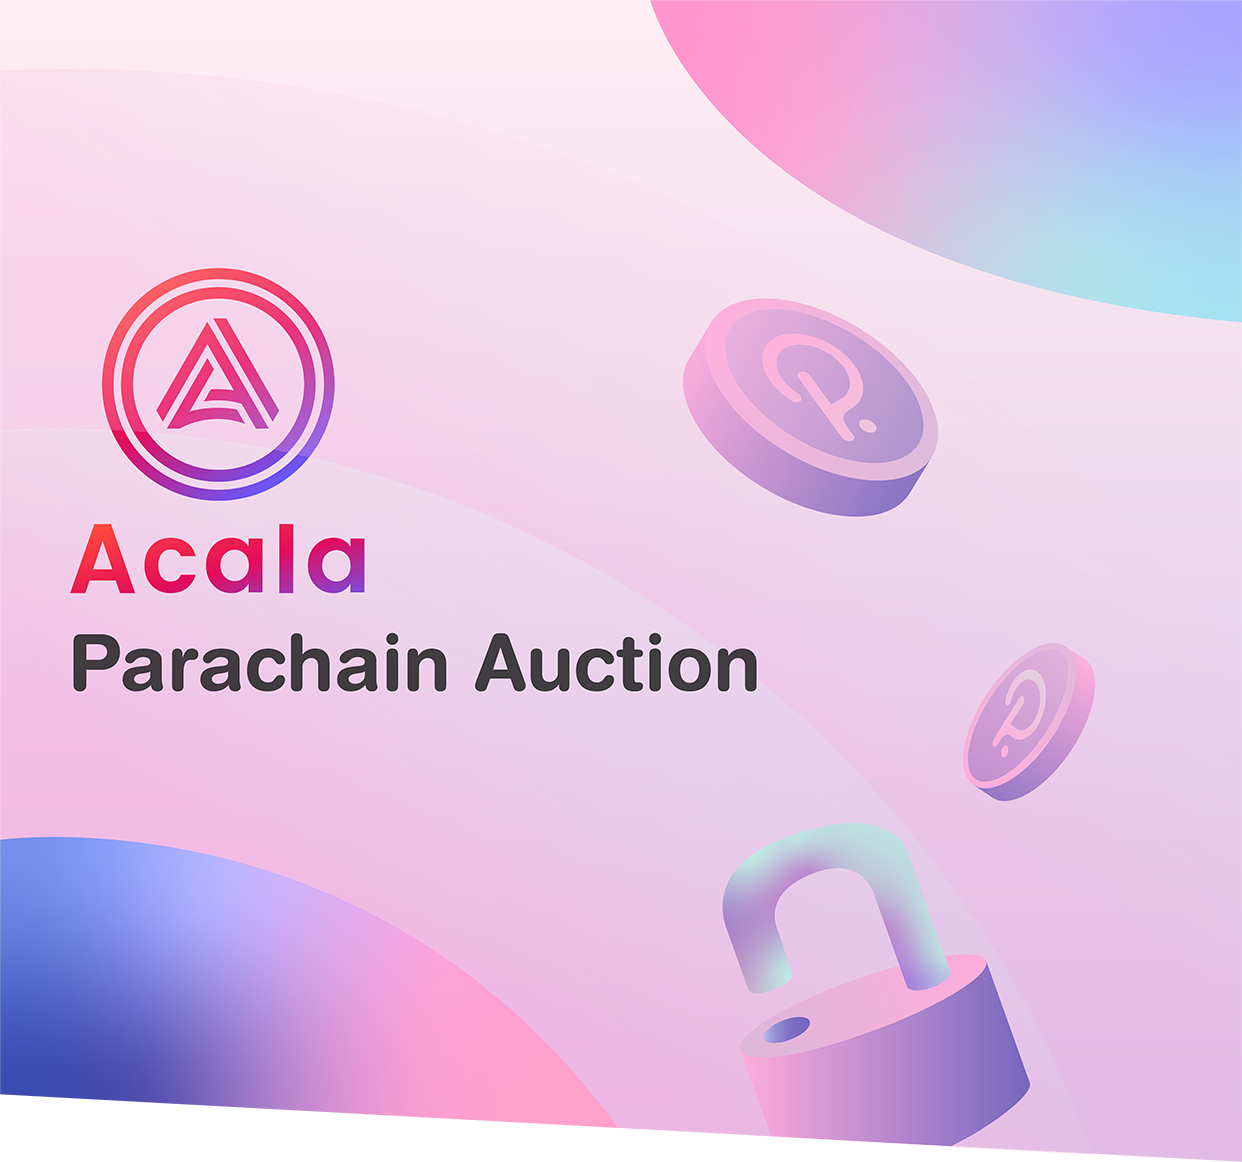
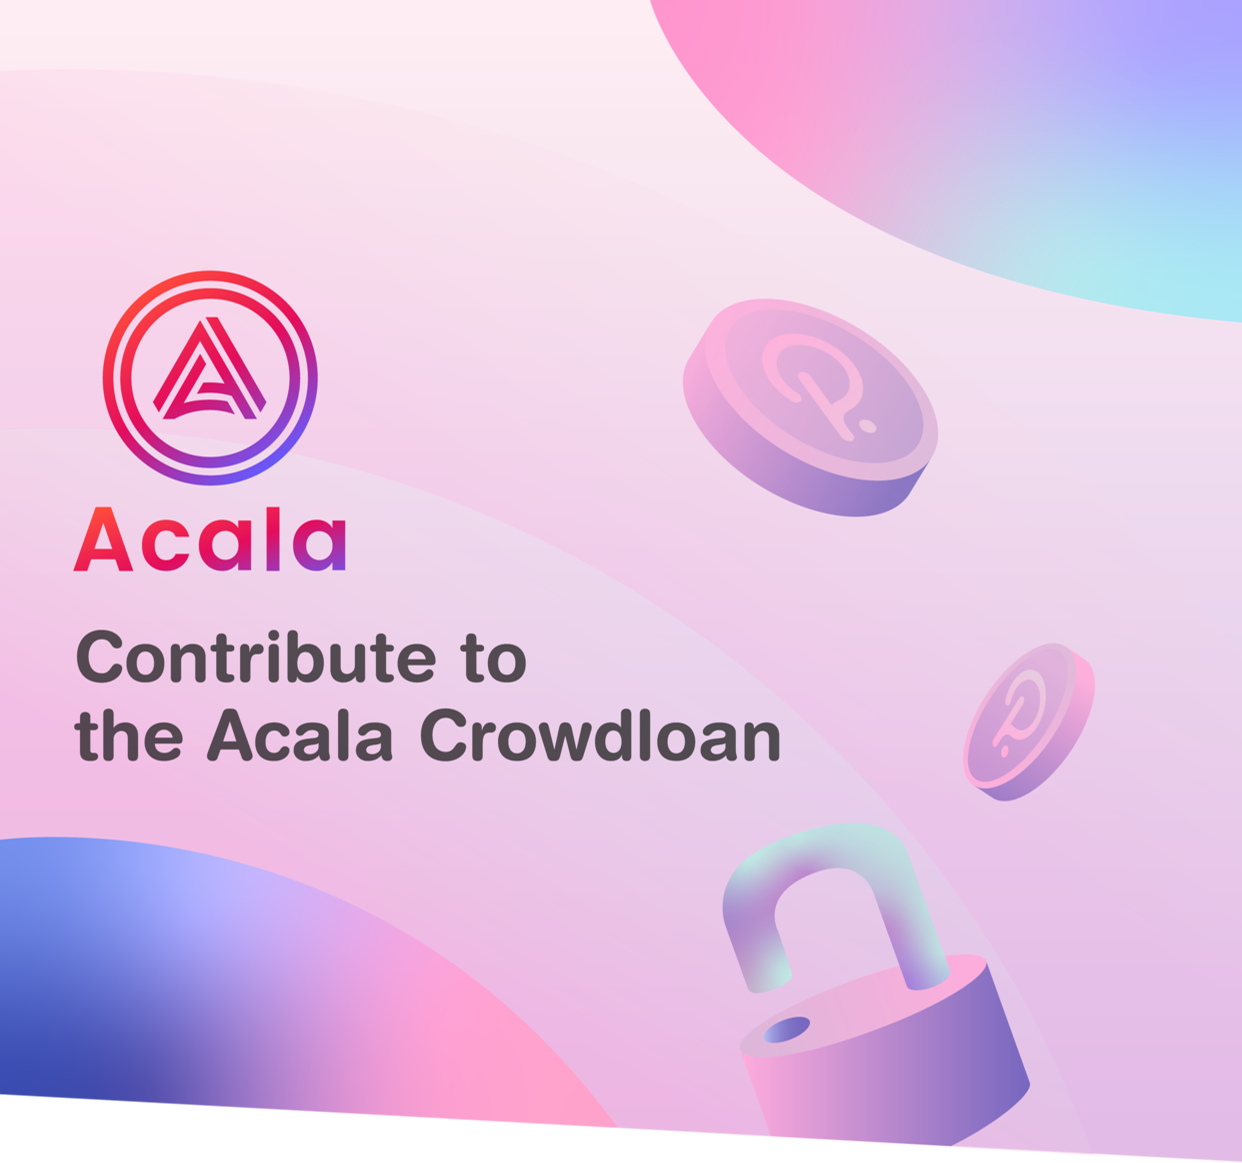
modify the copy of aca crowd loan page

Changed region(s): [[0.0612, 0.2169, 0.6425, 0.6506], [0.8567, 0.9914, 1.0, 1.0]]

diff --git a/lib/pages/profile/acalaCrowdLoan/acaCrowdLoanPage.dart b/lib/pages/profile/acalaCrowdLoan/acaCrowdLoanPage.dart
@@ -58,7 +58,7 @@ class AcaCrowdLoanPage extends StatefulWidget {
 }
 
 class _AcaCrowdLoanPageState extends State<AcaCrowdLoanPage> {
-  int _tab = 0;
+  int _tab = 1;
   int _bestNumber = 0;
   Map _fundInfo;
 
@@ -268,7 +268,7 @@ class _AcaCrowdLoanPageState extends State<AcaCrowdLoanPage> {
         arguments: AcaCrowdLoanPageParams(
             _account,
             _statement,
-            _tab == 0 ? AcaPloType.proxy : AcaPloType.direct,
+            _tab == 1 ? AcaPloType.proxy : AcaPloType.direct,
             _promotion,
             _fundInfo));
     if (res != null) {
@@ -327,8 +327,10 @@ class _AcaCrowdLoanPageState extends State<AcaCrowdLoanPage> {
       ratioAcaMax = 3;
     }
 
+    final isProxy = _tab == 1;
+
     final contributions = _contributions.toList();
-    if (_tab == 0) {
+    if (isProxy) {
       contributions
           .removeWhere((e) => e['type'] == AcaCrowdLoanPage.typeDirect);
     } else {
@@ -376,8 +378,8 @@ class _AcaCrowdLoanPageState extends State<AcaCrowdLoanPage> {
                               margin: EdgeInsets.zero,
                             ),
                           ),
-                          (_tab == 1 && !_signed) ||
-                                  (_tab == 0 && contributions.length == 0)
+                          (!isProxy && !_signed) ||
+                                  (isProxy && contributions.length == 0)
                               ? Column(
                                   children: [
                                     Row(
@@ -392,12 +394,12 @@ class _AcaCrowdLoanPageState extends State<AcaCrowdLoanPage> {
                                               padding:
                                                   EdgeInsets.only(right: 8),
                                               child: Checkbox(
-                                                value: _tab == 0
+                                                value: isProxy
                                                     ? _accepted
                                                     : _acceptedDirect,
                                                 onChanged: (v) {
                                                   setState(() {
-                                                    if (_tab == 0) {
+                                                    if (isProxy) {
                                                       _accepted = v;
                                                     } else {
                                                       _acceptedDirect = v;
@@ -549,7 +551,7 @@ class _AcaCrowdLoanPageState extends State<AcaCrowdLoanPage> {
                                                                           FontWeight
                                                                               .bold),
                                                                 ),
-                                                                _tab == 0
+                                                                isProxy
                                                                     ? Text(
                                                                         '(= $contributeAmount lcDOT)',
                                                                         style:
@@ -596,7 +598,7 @@ class _AcaCrowdLoanPageState extends State<AcaCrowdLoanPage> {
                                       : Container(),
                           Container(
                             margin: EdgeInsets.only(top: 16, bottom: 32),
-                            child: _tab == 0
+                            child: isProxy
                                 ? RoundedButton(
                                     text: dic['auction.contribute'],
                                     color: acaThemeColor,
@@ -638,15 +640,40 @@ class _PLOTabs extends StatelessWidget {
 
   void _showProxyInfo(BuildContext context) {
     final dic = I18n.of(context).getDic(i18n_full_dic_app, 'public');
+    final fontStyle = TextStyle(fontSize: 14.0, color: Colors.black);
     showCupertinoDialog(
       context: context,
       builder: (_) => CupertinoAlertDialog(
-        title: Text(dic['auction.proxy.title']),
-        content: _InfoPanelsInDialog(
-          closeDialog: () {
-            Navigator.of(context).pop();
-          },
+        content: Column(
+          children: [
+            Padding(
+              padding: EdgeInsets.only(bottom: 8),
+              child: RichText(
+                text: TextSpan(style: fontStyle, children: [
+                  TextSpan(
+                      text: dic['auction.direct'],
+                      style: TextStyle(fontWeight: FontWeight.bold)),
+                  TextSpan(text: dic['auction.direct.info']),
+                ]),
+              ),
+            ),
+            RichText(
+              text: TextSpan(style: fontStyle, children: [
+                TextSpan(
+                    text: dic['auction.proxy'],
+                    style: TextStyle(fontWeight: FontWeight.bold)),
+                TextSpan(text: dic['auction.proxy.info']),
+              ]),
+            ),
+          ],
         ),
+        actions: [
+          CupertinoButton(
+            child:
+                Text(I18n.of(context).getDic(i18n_full_dic_ui, 'common')['ok']),
+            onPressed: () => Navigator.of(context).pop(),
+          )
+        ],
       ),
     );
   }
@@ -671,7 +698,7 @@ class _PLOTabs extends StatelessWidget {
                     : Theme.of(context).cardColor,
               ),
               child: Text(
-                dic['auction.proxy'],
+                dic['auction.direct'],
                 style: TextStyle(
                     color: activeTab == 0
                         ? Theme.of(context).cardColor
@@ -693,7 +720,7 @@ class _PLOTabs extends StatelessWidget {
                     : Theme.of(context).cardColor,
               ),
               child: Text(
-                dic['auction.direct'],
+                dic['auction.proxy'],
                 style: TextStyle(
                     color: activeTab == 1
                         ? Theme.of(context).cardColor
@@ -719,68 +746,6 @@ class _PLOTabs extends StatelessWidget {
           )
         ],
       ),
-    );
-  }
-}
-
-class _InfoPanelsInDialog extends StatefulWidget {
-  _InfoPanelsInDialog({this.closeDialog});
-  final Function closeDialog;
-  @override
-  _InfoPanelsInDialogState createState() => _InfoPanelsInDialogState();
-}
-
-class _InfoPanelsInDialogState extends State<_InfoPanelsInDialog> {
-  int _page = 0;
-
-  @override
-  Widget build(BuildContext context) {
-    final dic = I18n.of(context).getDic(i18n_full_dic_app, 'public');
-    final dic2 = I18n.of(context).getDic(i18n_full_dic_ui, 'common');
-    return Column(
-      children: [
-        Container(
-          margin: EdgeInsets.only(top: 8, bottom: 8),
-          child: Image.asset("assets/images/public/plo_proxy_$_page.png",
-              height: 80),
-        ),
-        Container(
-          height: 80,
-          child: Column(
-            mainAxisAlignment: MainAxisAlignment.spaceAround,
-            children: [Text(dic['auction.proxy.${_page + 1}'])],
-          ),
-        ),
-        Row(
-          mainAxisAlignment: MainAxisAlignment.spaceBetween,
-          children: [
-            GestureDetector(
-              child: Text(
-                dic2['cancel'],
-                style: TextStyle(
-                  color: acaThemeColor,
-                ),
-              ),
-              onTap: widget.closeDialog,
-            ),
-            GestureDetector(
-              child: Text(
-                dic2[_page == 2 ? 'ok' : 'next'],
-                style: TextStyle(color: acaThemeColor),
-              ),
-              onTap: () {
-                setState(() {
-                  if (_page == 2) {
-                    widget.closeDialog();
-                  } else {
-                    _page += 1;
-                  }
-                });
-              },
-            )
-          ],
-        )
-      ],
     );
   }
 }

diff --git a/lib/utils/i18n/en/public.dart b/lib/utils/i18n/en/public.dart
@@ -4,15 +4,12 @@ const Map<String, String> enPublic = {
   'auction.kar': 'Parachain Auction',
   'auction.live': 'Event now live',
   'auction.finish': 'Event has ended',
-  'auction.proxy': 'Proxy',
-  'auction.direct': 'Direct',
-  'auction.proxy.title': 'Contribute via Acala proxy',
-  'auction.proxy.1':
-      '1. Besides the ACA tokens, receive Liquid Crowdloan DOT (lcDOT), a liquid token representing your locked DOT.',
-  'auction.proxy.2':
-      '2. lcDOT lets you access the underlying DOT liquidity for use in DeFi protocols. Swap, use as collateral to mint aUSD, and more.',
-  'auction.proxy.3':
-      '3. In 2 years, you can use lcDOT to redeem the underlying DOT locked in the Acala crowdloan.',
+  'auction.proxy': 'Liquid',
+  'auction.direct': 'Standard',
+  'auction.proxy.info':
+      ' contributions enable access to your underlying DOT liquidity. With this method you will receive ACA rewards and Liquid Crowdloan DOT (lcDOT), which can be used to earn more yield in DeFi on Acala.',
+  'auction.direct.info':
+      ' contributions invite you to lock DOT for 2 years to receive ACA rewards after Acala launches.',
   'auction.address': 'Address',
   'auction.read': 'I have read and accept the',
   'auction.meet': 'I have check and was meet the',
@@ -20,19 +17,19 @@ const Map<String, String> enPublic = {
   'auction.term.2': 'Privacy Policy',
   'auction.accept': 'Accept & Sign',
   'auction.contribute': 'Contribute',
-  'auction.email': 'Email(optional)',
+  'auction.email': 'Email (optional)',
   'auction.amount': 'Amount',
   'auction.amount1': 'Amount to Contribute (DOT)',
   'auction.amount.error': 'amount, minimum',
   'auction.balance': 'Available',
-  'auction.referral': 'Referral Code(optional)',
+  'auction.referral': 'Referral Code (optional)',
   'auction.estimate': 'Estimated ACA Reward Range',
   'auction.receive.dot': 'Total lcDOT receipt',
   'auction.invite': 'Referral',
   'auction.extra': 'Extra',
   'auction.note':
       'If Acala wins the auction, ACA rewards will be distributed upon genesis. Otherwise, the DOT locked will automatically bid for the next available auction. Check the Terms & Conditions for details.',
-  'auction.init': 'ACA Unlocked at Launch',
+  'auction.init': 'ACA unlocked at launch',
   'auction.vest': 'Vested over the lease period',
   'auction.lease': 'Lease period',
   'auction.notify':

diff --git a/lib/pages/profile/acalaCrowdLoan/acaCrowdLoanBanner.dart b/lib/pages/profile/acalaCrowdLoan/acaCrowdLoanBanner.dart
@@ -5,7 +5,6 @@ import 'package:app/service/index.dart';
 import 'package:app/utils/i18n/index.dart';
 import 'package:flutter/cupertino.dart';
 import 'package:flutter/material.dart';
-import 'package:flutter_mobx/flutter_mobx.dart';
 import 'package:polkawallet_sdk/utils/i18n.dart';
 
 class ACACrowdLoanBanner extends StatelessWidget {
@@ -35,22 +34,20 @@ class ACACrowdLoanBanner extends StatelessWidget {
 
   @override
   Widget build(BuildContext context) {
-    return Observer(builder: (_) {
-      final active = service.buildTarget == BuildTargets.dev
-          ? true
-          : (service.store.settings.adBannerState['startedAca'] ?? false);
-      return Stack(
-        alignment: AlignmentDirectional.topEnd,
-        children: [
-          GestureDetector(
-            child: Container(
-              margin: EdgeInsets.all(8),
-              child: Image.asset('assets/images/public/banner_aca_plo.png'),
-            ),
-            onTap: () => _goToCrowdLoan(context, active),
+    final active = service.buildTarget == BuildTargets.dev
+        ? true
+        : (service.store.settings.adBannerState['startedAca'] ?? false);
+    return Stack(
+      alignment: AlignmentDirectional.topEnd,
+      children: [
+        GestureDetector(
+          child: Container(
+            margin: EdgeInsets.all(8),
+            child: Image.asset('assets/images/public/banner_aca_plo.png'),
           ),
-        ],
-      );
-    });
+          onTap: () => _goToCrowdLoan(context, active),
+        ),
+      ],
+    );
   }
 }

diff --git a/lib/utils/i18n/zh/public.dart b/lib/utils/i18n/zh/public.dart
@@ -4,14 +4,11 @@ const Map<String, String> zhPublic = {
   'auction.kar': '平行链拍卖',
   'auction.live': '活动进行中',
   'auction.finish': '活动已结束',
-  'auction.proxy': '代理参与',
+  'auction.proxy': '保持流动性参与',
   'auction.direct': '直接参与',
-  'auction.proxy.title': '通过 Acala 代理账户参与',
-  'auction.proxy.1':
-      '1. 获得 ACA 奖励的同时，还能获得你贡献 DOT 对应数量的 Liquid Crowdloan DOT (lcDOT)',
-  'auction.proxy.2': '2. Acala 网络启动后，可以使用 lcDOT 参与各种 DeFi 活动.',
-  'auction.proxy.3':
-      '3. Acala 插槽到期（2年）后，可以使用 lcDOT 换回 Acala crowdloan 中锁定的对应数量的 DOT',
+  'auction.proxy.info':
+      ' 将会释放锁定 DOT 的流动性。通过这种方式你可以同时获得 ACA 奖励和 Liquid Crowdloan DOT (lcDOT)，lcDOT 可以用于参与 Acala 网络上的 DeFi 并获得更多收益。',
+  'auction.direct.info': ' 将会在 Acala 网络启动后获得 ACA 奖励，同时会锁定 DOT 直到插槽到期（2年）。',
   'auction.address': '地址',
   'auction.read': '我已阅读并接受',
   'auction.meet': '我已检查并符合',
